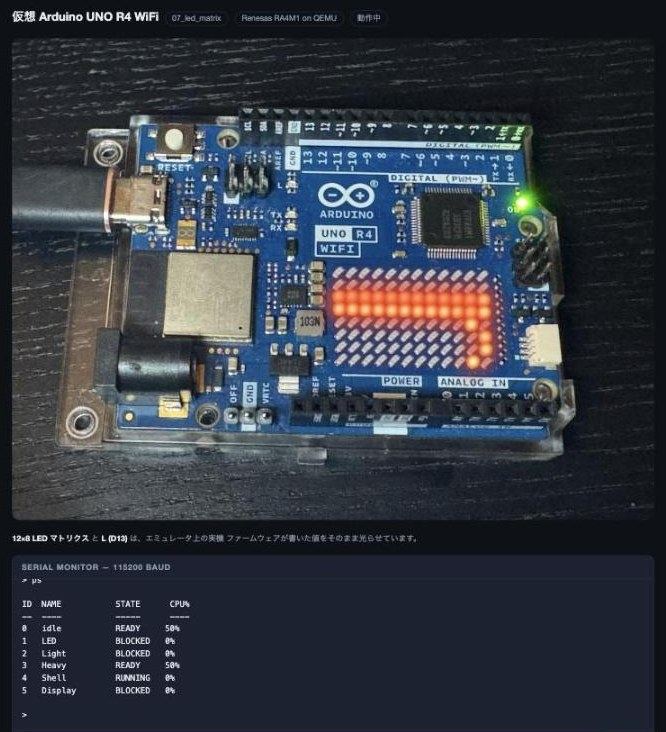
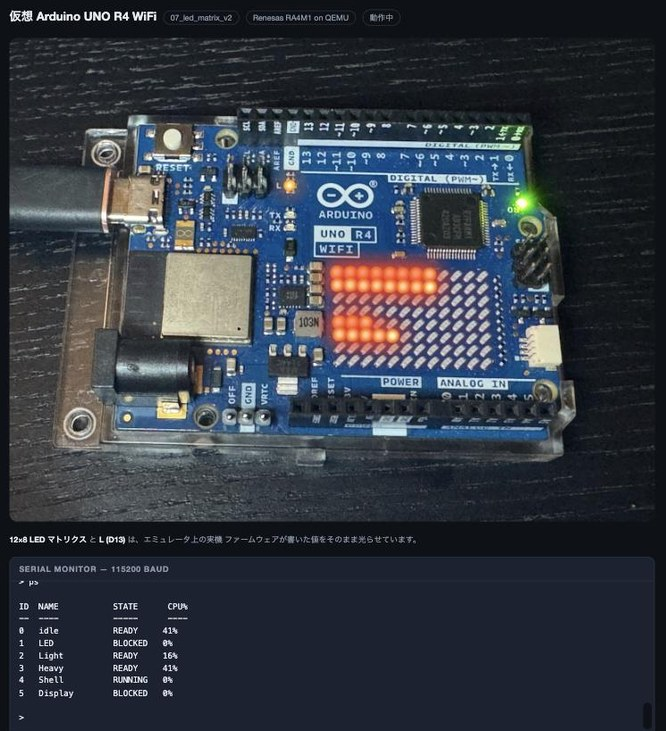
docs(sim): ブラウザ版に 07_led_matrix_v2 を足し、既定の章と図を v2 にする
- 章の一覧に「第7章 改良版」を足し、最初に開く章を v2 にする
- 端末が画面消去 (ESC[2J) を解釈するようにし、ほかのエスケープシーケンスは
  表示しない。v2 の top が描き直しのたびに出すので、これがないと表が崩れる
- シミュレータのページの GIF と画面写真を v2 で撮り直し、説明を横棒の読み方に
  合わせる (ja / en)。GIF は check_gif.py で kill 3 の後に上 4 行の点灯が
  14.8 → 6.0 に減り、exec 3 で戻ることを確かめた

diff --git a/docs/sim/sim.js b/docs/sim/sim.js
@@ -35,6 +35,7 @@ const CHAPTERS = [
   { dir: '05_shell', title: '第5章: 対話型シェル' },
   { dir: '06_memory_protection', title: '第6章: メモリ保護' },
   { dir: '07_led_matrix', title: '第7章: LEDマトリクス可視化' },
+  { dir: '07_led_matrix_v2', title: '第7章 改良版: htop 風の表示と top（書籍未掲載）' },
   { dir: '08_interpreter', title: '第8章: 簡易インタプリタ' },
   { dir: '09_integration', title: '第9章: 統合とロボット制御',
     note: 'ブラウザ版の QEMU は命令をインタプリタで実行するため、実機の約 1/10 の速さしか出ません。この章の ps が出す CPU% は、合計が 100% を少し超えることがあります。'
@@ -45,7 +46,7 @@ const CHAPTERS = [
   { dir: 'adv2_syscall', title: '応用編 第2章: ユーザー／カーネルモードと SVC' },
   { dir: 'adv3_heap', title: '応用編 第3章: ヒープ自作' },
 ];
-const DEFAULT_CHAPTER = '07_led_matrix';
+const DEFAULT_CHAPTER = '07_led_matrix_v2';
 // 章の代わりに、読者が自分でビルドした ELF を選んで動かす
 const CUSTOM = { dir: 'custom', title: '自分でビルドした ELF を動かす…' };
 
@@ -102,10 +103,24 @@ function setStatus(text, kind = '') {
   el.dataset.kind = kind;
 }
 
+// エスケープシーケンスのうち、画面消去（ESC[2J。07_led_matrix_v2 の top が
+// 描き直しのたびに出す）だけを解釈し、それ以外は表示せずに捨てる。
+// シリアルは細切れに届くので、途中で切れたシーケンスは次の分とつなげて読む。
+const CSI_CLEAR = /\x1b\[2J/g;
+const CSI_ANY = /\x1b\[[0-9;?]*[@-~]/g;
+const CSI_PARTIAL = /\x1b(\[[0-9;?]*)?$/;
+let consolePending = '';
+
 function appendConsole(text) {
   const el = $('console');
   const atBottom = el.scrollTop + el.clientHeight >= el.scrollHeight - 20;
-  el.textContent += text;
+  text = consolePending + text;
+  const partial = text.match(CSI_PARTIAL);
+  consolePending = partial ? partial[0] : '';
+  if (partial) text = text.slice(0, partial.index);
+  const pages = text.split(CSI_CLEAR);
+  if (pages.length > 1) el.textContent = '';
+  el.textContent += pages[pages.length - 1].replace(CSI_ANY, '');
   if (el.textContent.length > CONSOLE_TRIM_AT) {
     el.textContent = el.textContent.slice(-CONSOLE_KEEP);
   }

diff --git a/docs/ja/source/getting-started/simulator.md b/docs/ja/source/getting-started/simulator.md
@@ -198,8 +198,8 @@ uv run python ../sim/board.py --chapter .  # 仮想ボードを起動
 :name: fig-sim-browser
 :width: 80%
 
-第7章のサンプルを動かし、シリアルモニタに `ps` と打ったところ。
-上が基板、下がシリアルモニタです。
+第7章の改良版 `07_led_matrix_v2` を動かし、シリアルモニタに `ps` と打ったところ。
+上が基板、下がシリアルモニタです。マトリクスの横棒と `ps` の CPU% は同じ値を表しています。
 ```
 
 Windows では `python3` ではなく `python` と打ってください。
@@ -230,9 +230,10 @@ QEMU を `qemu-unor4` 以外の場所に置いた場合は、`--qemu` でその
 :name: fig-sim-matrix
 :width: 80%
 
-第7章のサンプル。LED マトリクスの上半分が CPU 負荷のグラフ、下半分がタスクごとの
-実行状態です。シリアルから `kill 3` で重い計算のタスク（Heavy）を止めると、
-CPU 負荷のグラフが消えていきます。
+第7章の改良版 `07_led_matrix_v2`。マトリクスの横棒は CPU の使用率で、12 個で 100% です。
+いちばん上の 2 行が CPU 全体、1 行あけて下の 5 行がタスクごと（上から LED・Light・Heavy・Shell・Display）です。
+`kill 3` で重い計算のタスク（Heavy）を止めると、Heavy の行が消えて全体の棒が縮み、
+`exec 3` で元に戻ります。
 ```
 
 ## 章ごとの対応

diff --git a/docs/en/source/getting-started/simulator.md b/docs/en/source/getting-started/simulator.md
@@ -210,8 +210,9 @@ few seconds longer.)
 :name: fig-sim-browser
 :width: 80%
 
-The Chapter 7 sample after typing `ps` into the serial monitor. The board is
-at the top, the serial monitor below it.
+The improved Chapter 7 sample, `07_led_matrix_v2`, after typing `ps` into the
+serial monitor. The board is at the top, the serial monitor below it. The bars
+on the matrix show the same numbers as the CPU% column of `ps`.
 ```
 
 On Windows, type `python` instead of `python3`.
@@ -242,9 +243,11 @@ The Chapter 2 sample blinking the built-in LED "L" (D13), zoomed in around it.
 :name: fig-sim-matrix
 :width: 80%
 
-The Chapter 7 sample. The top half of the LED matrix is a CPU load graph, the
-bottom half shows what each task is doing. Stopping the busy task (Heavy)
-with `kill 3` from the serial monitor makes the CPU load graph drain away.
+The improved Chapter 7 sample, `07_led_matrix_v2`. Each bar on the matrix is CPU
+usage, with 12 dots meaning 100%. The top two rows are the whole CPU; after one blank row, the five rows
+below are one per task (LED, Light, Heavy, Shell, Display from the top).
+Stopping the busy task (Heavy) with `kill 3` removes its row and shrinks the
+total bar; `exec 3` brings them back.
 ```
 
 ## Chapter coverage
